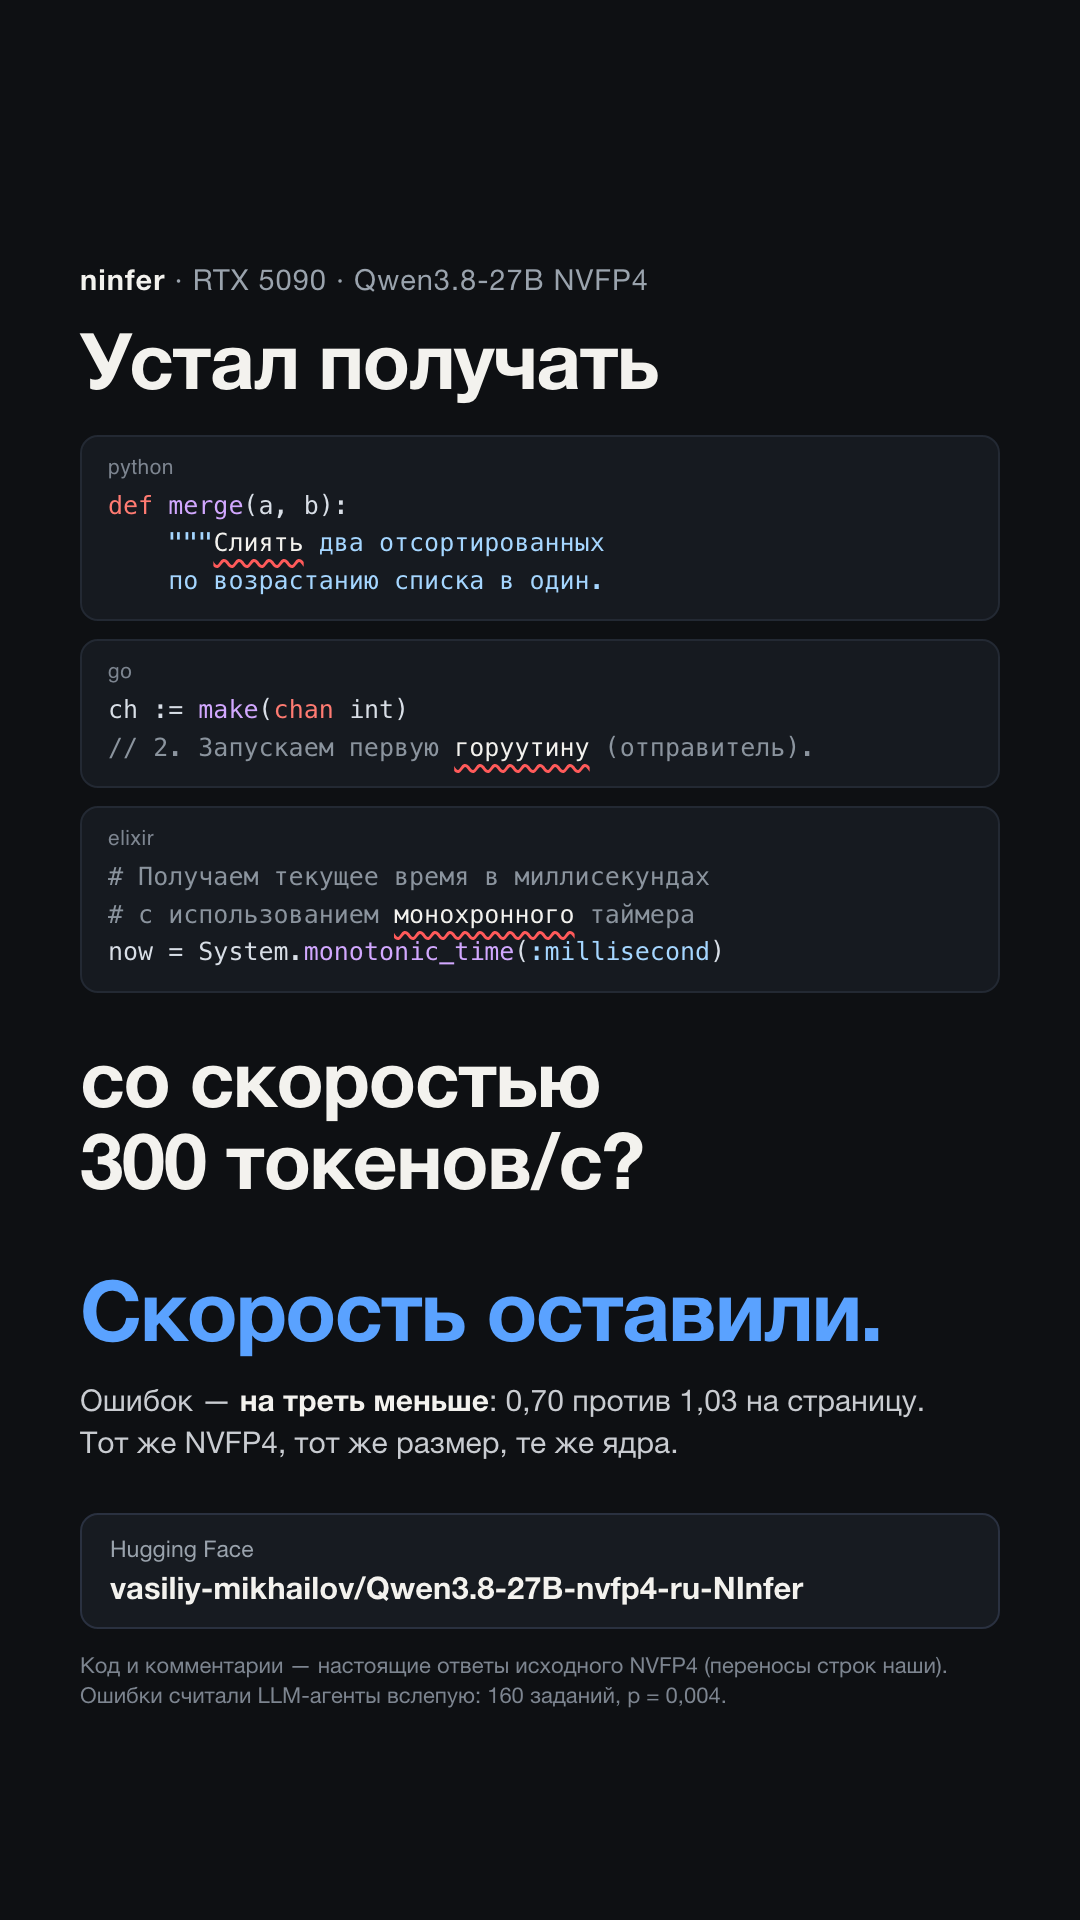
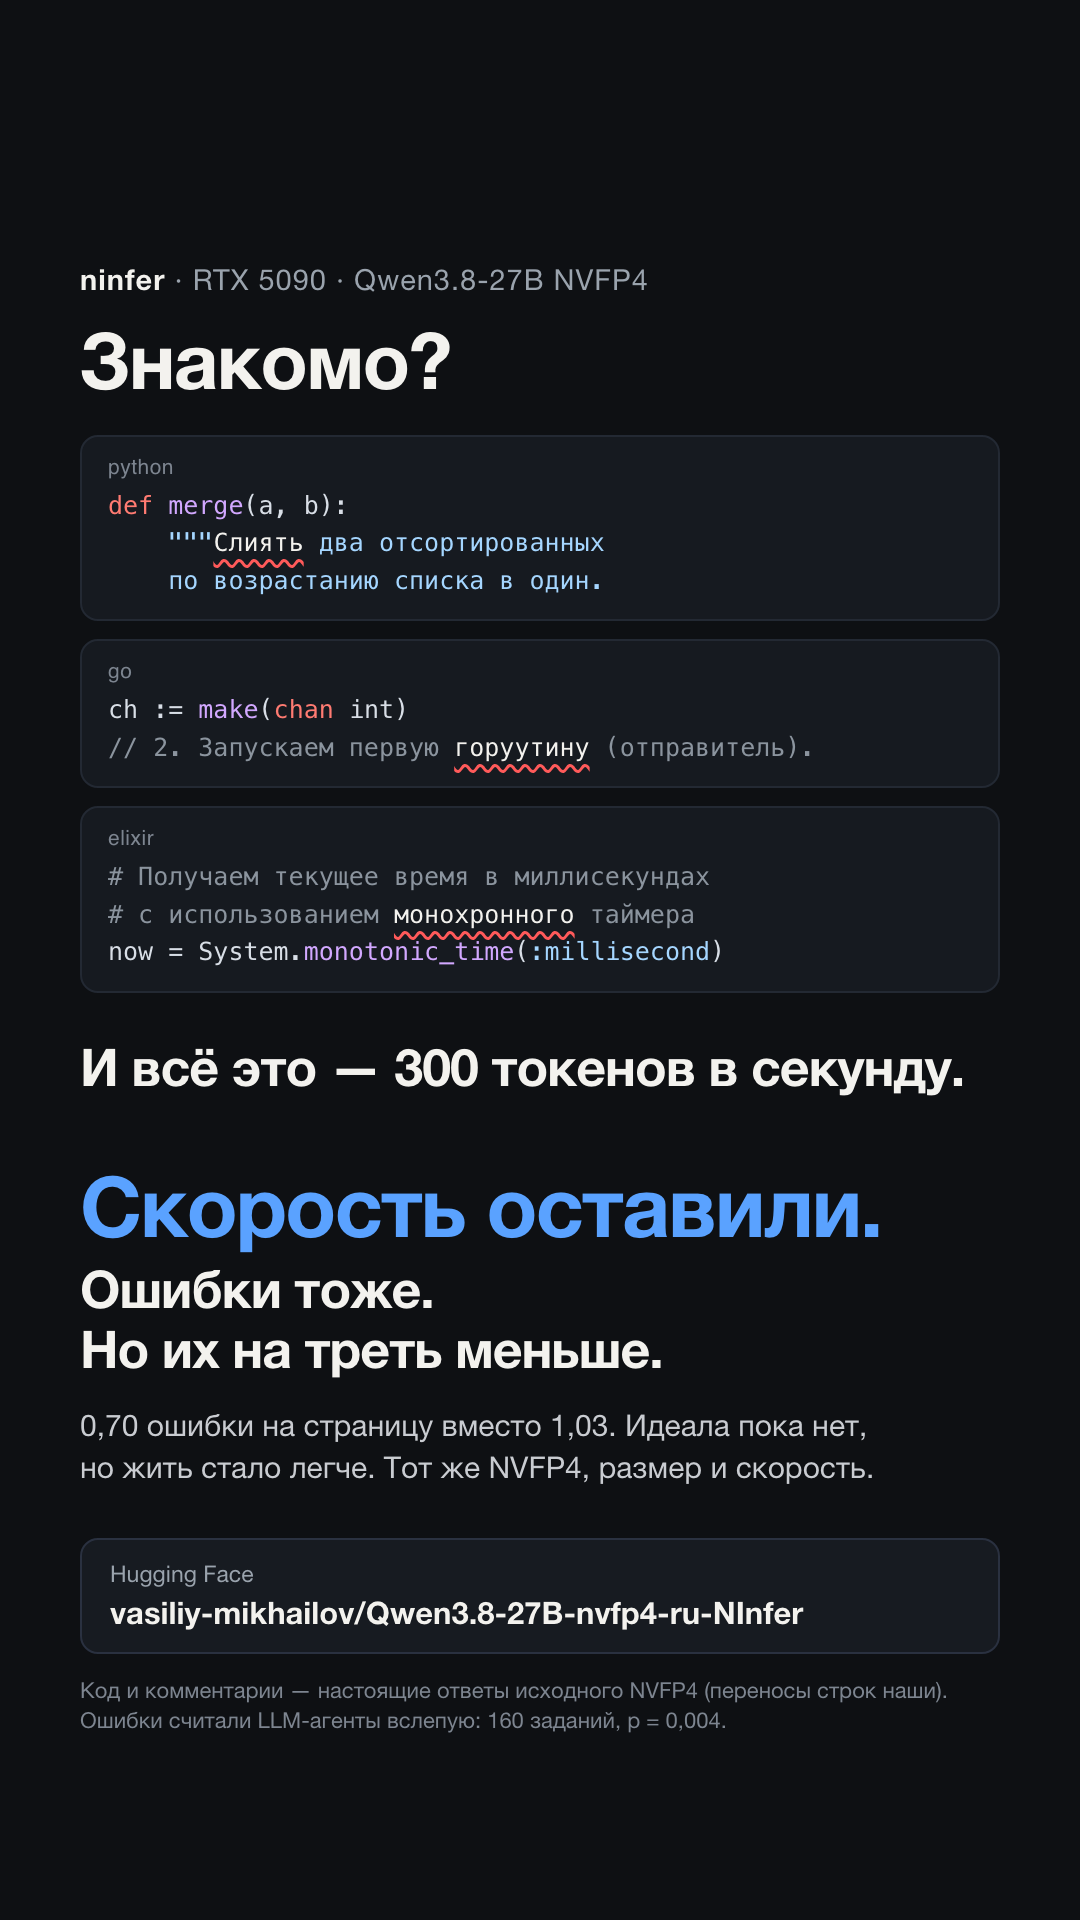
Soften the story's promise: fewer errors, not none

Changed region(s): [[0.0611, 0.5312, 0.8861, 0.9062], [0.3667, 0.1562, 0.6111, 0.2188], [0.0611, 0.1562, 0.3361, 0.2188]]

diff --git a/hf/qwen3.8-27b-nvfp4-ru-story-code.html b/hf/qwen3.8-27b-nvfp4-ru-story-code.html
@@ -23,6 +23,8 @@
   .f { color: #d2a8ff; }
   .s { color: #a5d6ff; }
   .e { color: #f3f2ee; text-decoration: underline wavy #ff5a5a; text-decoration-thickness: 3px; text-underline-offset: 8px; }
+  .h2 { margin: 0; font-size: 52px; line-height: 1.15; font-weight: 700; letter-spacing: -1px; color: #f3f2ee; }
+  .punch2 { margin-top: 10px; font-size: 52px; line-height: 1.15; font-weight: 700; letter-spacing: -1px; color: #f3f2ee; }
   .punch { margin-top: 64px; font-size: 84px; line-height: 1.05; font-weight: 800; letter-spacing: -2px; color: #5aa2ff; }
   .fine { margin-top: 26px; font-size: 30px; line-height: 1.4; color: #c9ccd1; }
   .fine b { color: #f3f2ee; font-weight: 600; }
@@ -36,7 +38,7 @@
 <div class="wrap">
   <div class="kicker"><b>ninfer</b> · RTX 5090 · Qwen3.8-27B NVFP4</div>
 
-  <p class="h">Устал получать</p>
+  <p class="h">Знакомо?</p>
 
   <div class="cards">
     <div class="card"><div class="lang">python</div><pre><span class="k">def</span> <span class="f">merge</span>(a, b):
@@ -49,11 +51,12 @@
 now = System.<span class="f">monotonic_time</span>(<span class="s">:millisecond</span>)</pre></div>
   </div>
 
-  <p class="h">со скоростью<br>300 токенов/с?</p>
+  <p class="h2">И всё это — 300 токенов в секунду.</p>
 
   <div class="punch">Скорость оставили.</div>
+  <div class="punch2">Ошибки тоже.<br>Но их на треть меньше.</div>
 
-  <div class="fine">Ошибок — <b>на треть меньше</b>: 0,70 против 1,03 на страницу.<br>Тот же NVFP4, тот же размер, те же ядра.</div>
+  <div class="fine">0,70 ошибки на страницу вместо 1,03. Идеала пока нет,<br>но жить стало легче. Тот же NVFP4, размер и скорость.</div>
 
   <div class="link">
     <div class="t">Hugging Face</div>
